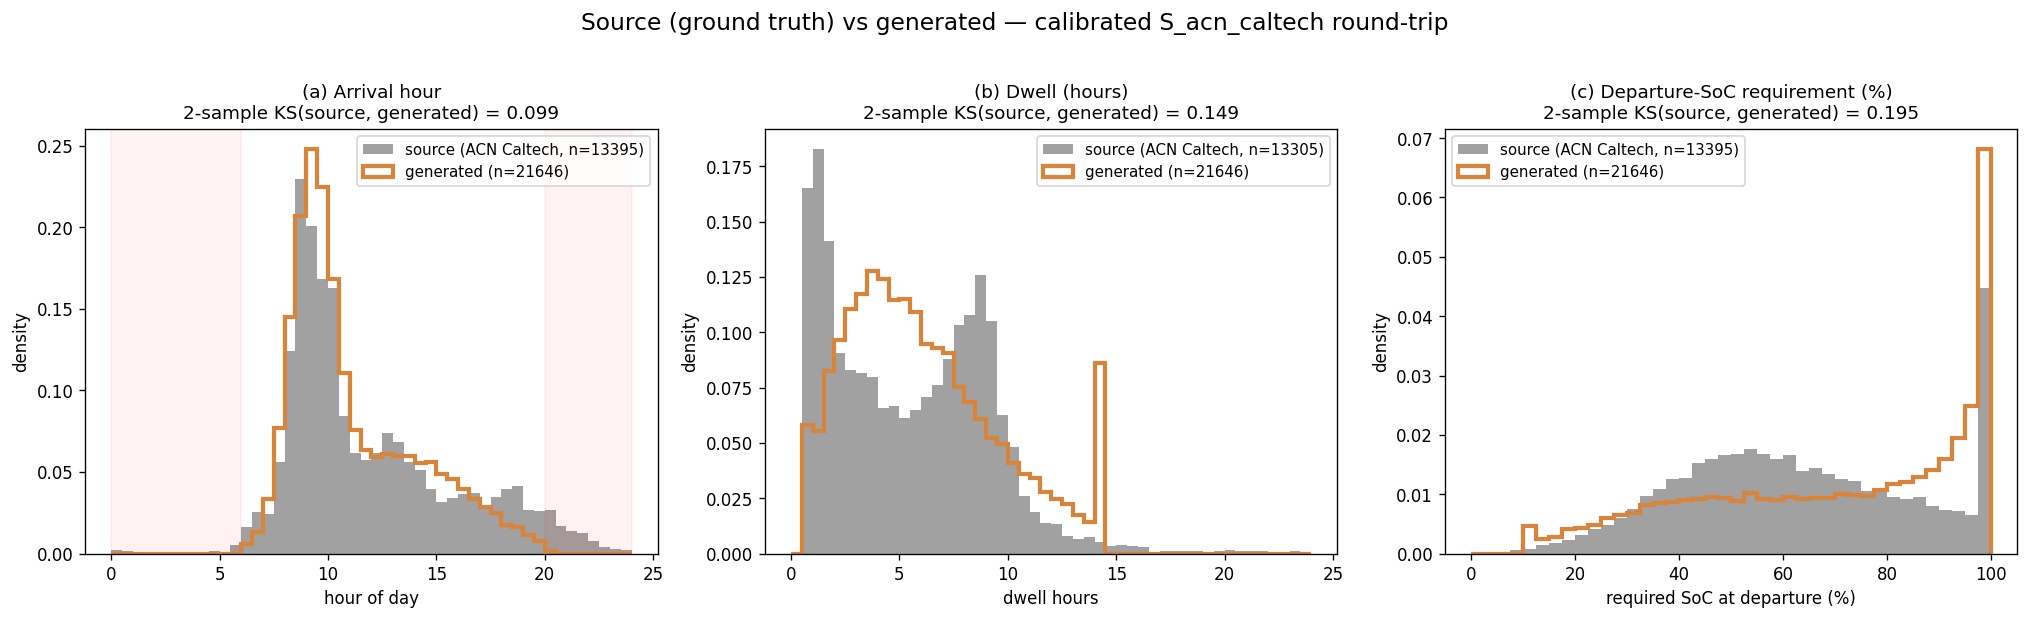
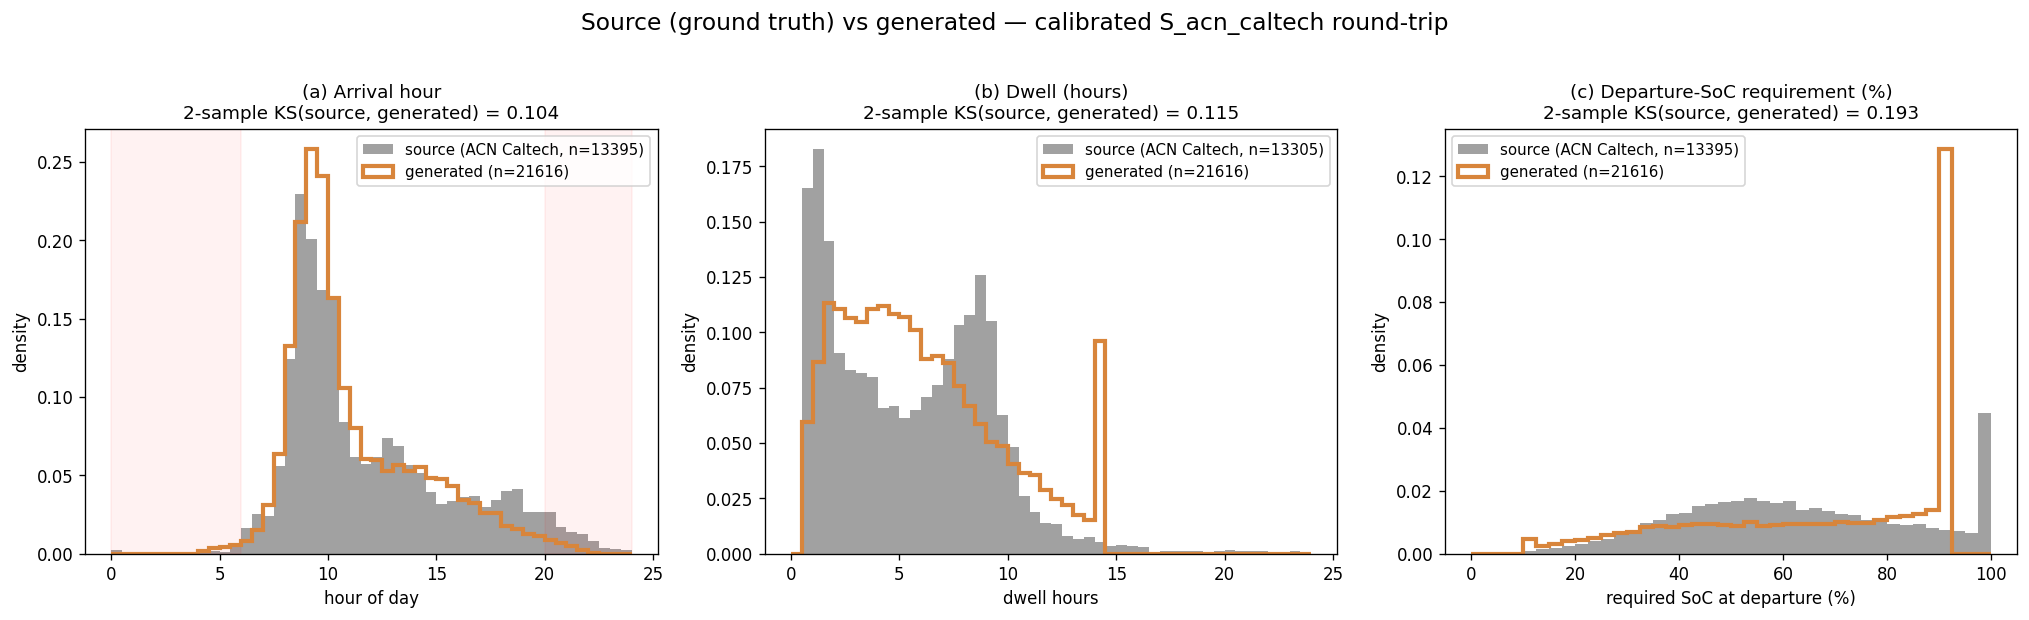
docs(readme): refresh source-vs-generated prose + figure for post-B marginals
Regenerated S_acn_caltech round-trip on the improved generator: arrival KS
0.12->0.10, dwell 0.15->0.12 (departure-SoC 0.19 unchanged — SoC is a prior).
Removes the stale 'hard-clipped at 6/20' claim (window now [4,22], ~1.7% in
widened tails). Figure regenerated.

Claude-Session: https://claude.ai/code/session_016qEN3YS5BgfEt7hUNdcKcC

diff --git a/README.md b/README.md
@@ -336,10 +336,17 @@ output. Reproduce with `docs/experiments/source_vs_generated.py`.
 
 ![Source vs generated distributions](docs/experiments/source_vs_generated.png)
 
-The 2-sample KS gaps (arrival 0.12, dwell 0.15, departure-SoC 0.19) make the
-model's limitations visible and honest: generated arrival is broader/later and
-hard-clipped at 6/20; generated dwell misses the source's **bimodal** shape and
-shows a clamp artifact near 14 h; departure SoC over-piles near 100%.
+The 2-sample KS gaps (arrival 0.10, dwell 0.12, departure-SoC 0.19) make the
+model's limitations visible and honest. Since the marginal upgrade — per-region
+2-component arrival mixtures + Weibull/mixture dwell, with the arrival window
+widened [6,20]→[4,22] — the **hard 6/20 clip is gone**: generated arrival now
+spans [4,22] (only ~1.7% in the widened tails) and tracks the source mode more
+closely (mean 11.1 vs 11.9 h), though it stays slightly narrower/earlier; dwell
+fits well (KS 0.12). **Departure SoC is the weakest cell and is unchanged** — it
+still over-piles near 100% (KS 0.19) because SoC is a modeled prior, not a
+calibrated fit. This pooled single-site view understates the gain; per-region
+multi-site cohorts improve more (see `docs/CALIBRATION_RESULTS.md` — e.g.
+rare-consistent arrival KS 0.18 → 0.08).
 
 Candidate-family comparison against the raw data (empirical vs each fitted
 family), from `docs/experiments/model_fit_plots.py`: